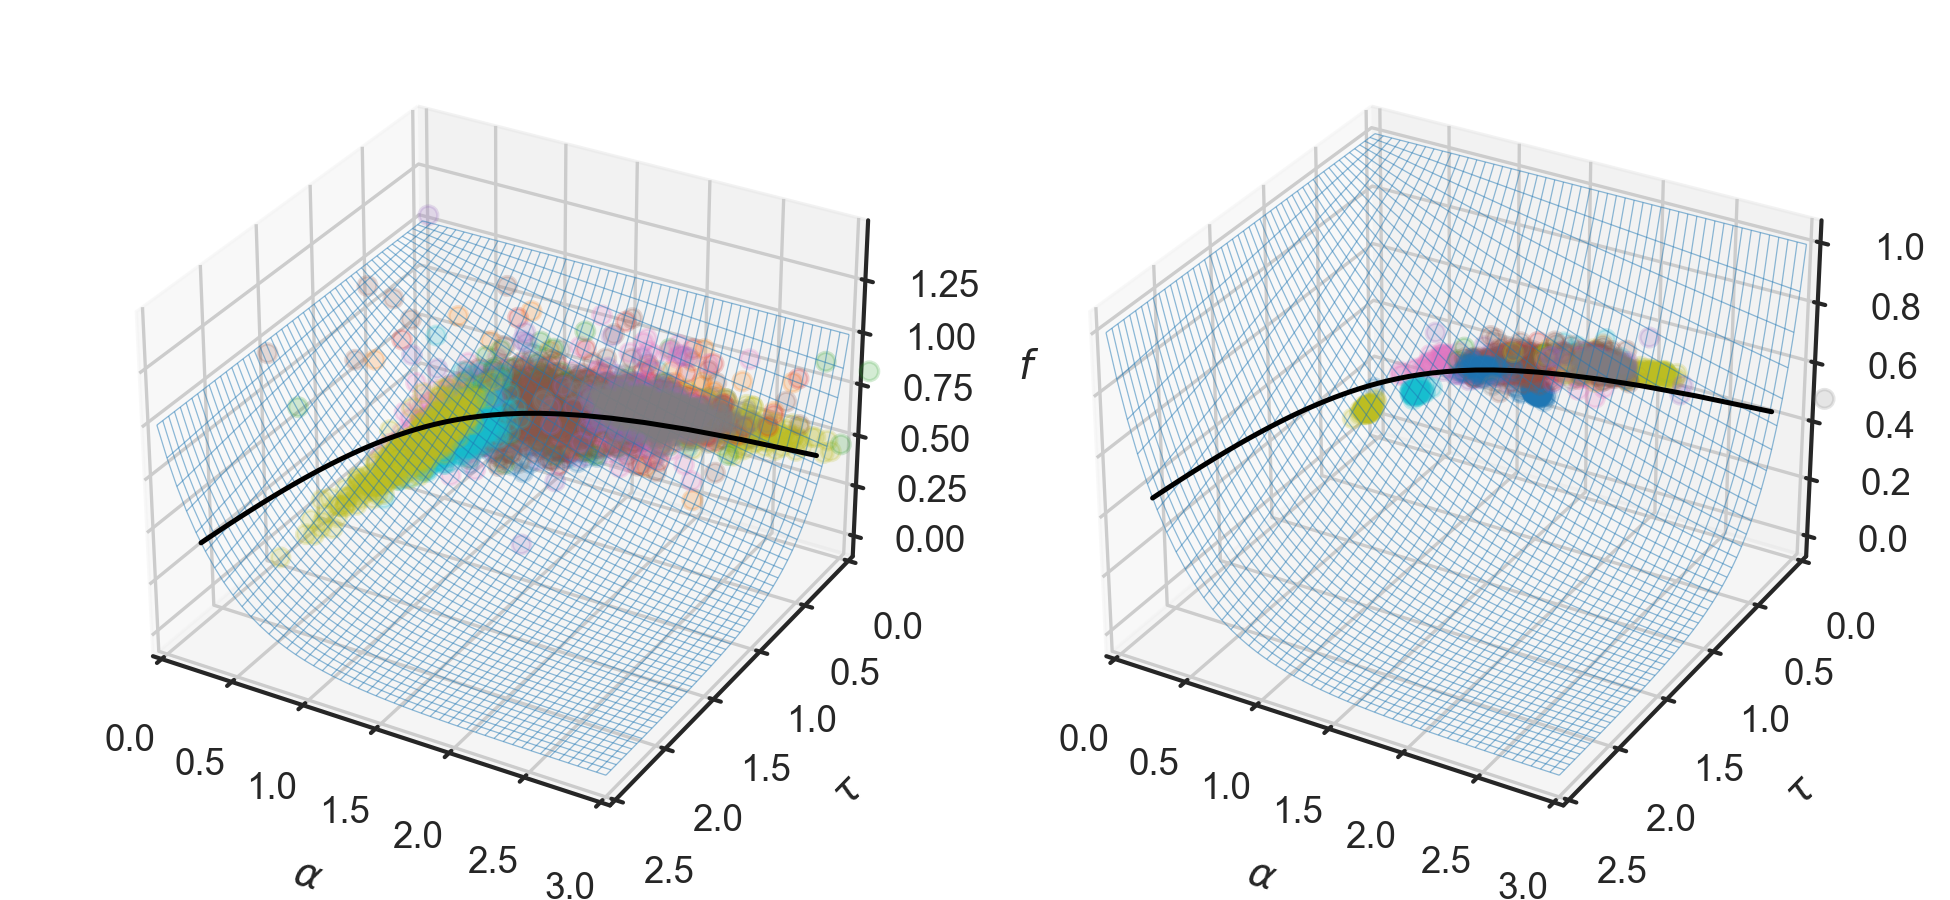
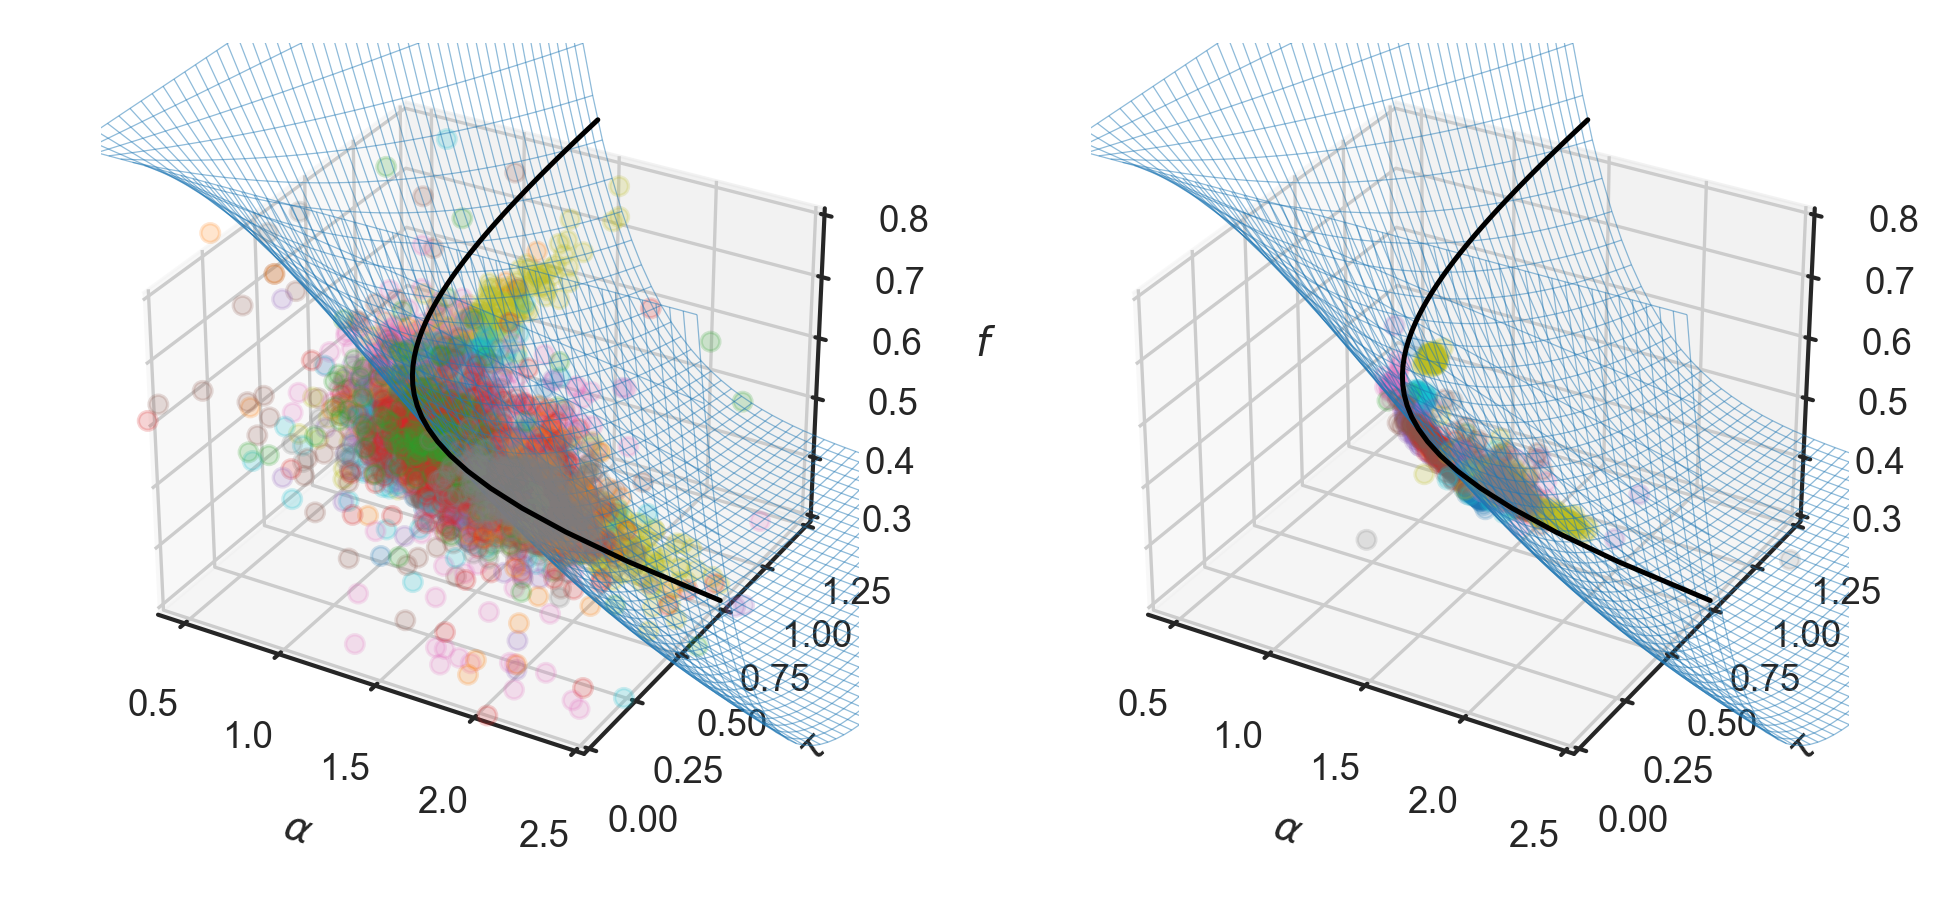
Code cleanup, bug fixes, and analysis script updates.

diff --git a/AnalysisCode/process_rawdata.py b/AnalysisCode/process_rawdata.py
@@ -33,9 +33,8 @@ def clean_up(lineage, window_size_of_interest=200):
     """ Gets rid of the remaining discrepancies """
 
     def recursive_rise_exclusion(lin, totals, rises):
-        diff = np.log(lin['length'].values[:-1]) - np.log(
-            lin['length'].values[
-            1:])  # What is the difference between the natural logs of two consecutive length measurements across one unit of time?
+        # What is the difference between the natural logs of two consecutive length measurements across one unit of time?
+        diff = np.log(lin['length'].values[:-1]) - np.log(lin['length'].values[1:])
 
         new_rises = np.where(diff <= -.5)[0]  # Here is where we check if it went up dramatically
 
@@ -46,8 +45,7 @@ def clean_up(lineage, window_size_of_interest=200):
                 woi = [0, len(lin)]
             elif rise <= window_size_of_interest:  # The raw lineage is big enough but rise is too close to the start of the lineage
                 woi = [0, rise + (window_size_of_interest - rise)]
-            elif len(
-                    lin) - rise <= window_size_of_interest:  # The raw lineage is big enough but rise is too close to the end of the lineage
+            elif len(lin) - rise <= window_size_of_interest:  # The raw lineage is big enough but rise is too close to the end of the lineage
                 woi = [len(lin) - window_size_of_interest, len(lin)]
             else:  # No complications with window size
                 woi = [rise - window_size_of_interest, rise + window_size_of_interest]
@@ -59,14 +57,6 @@ def clean_up(lineage, window_size_of_interest=200):
                 new_new.append(rise)
 
         new_rises = np.array(new_new)
-
-        # if len(new_new) > 0:
-        #     plt.plot(lin['length'].values)
-        #     plt.scatter(new_rises, lin['length'].values[new_rises], color='brown')
-        #     # plt.xlim([2500, 3200])
-        #     plt.tight_layout()
-        #     plt.show()
-        #     plt.close()
 
         rises = np.append(rises, [int(l + np.sum([l >= old for old in totals])) for l in
                                   new_rises]).flatten()  # Re-align these point to the raw_data
@@ -87,8 +77,7 @@ def clean_up(lineage, window_size_of_interest=200):
 
     """ Get rid of the non-positive lengths first """
     total_nans = np.array([])  # Where we will keep all the indices that will be taken out of the corrected lineage
-    non_positives = np.array(
-        lineage[lineage['length'] <= 0].index)  # Where the length is non-positive, which is impossible
+    non_positives = np.array(lineage[lineage['length'] <= 0].index)  # Where the length is non-positive, which is impossible
 
     if len(non_positives) > 0:  # Notify the user and take the non-positives out
         # print('NOTE: This lineage has a length lower than or equal to 0.')
@@ -100,9 +89,8 @@ def clean_up(lineage, window_size_of_interest=200):
     lineage = lineage.reset_index(drop=True)  # for good-practice
 
     """ Get rid of the single-point singularities first """
-    diff = np.log(lineage['length'].values[:-1]) - np.log(
-        lineage['length'].values[
-        1:])  # What is the difference between the natural logs of two consecutive length measurements across one unit of time?
+    # What is the difference between the natural logs of two consecutive length measurements across one unit of time?
+    diff = np.log(lineage['length'].values[:-1]) - np.log(lineage['length'].values[1:])
 
     # Take out all the singularities
     straight_up = np.where(diff <= -.4)[0]  # These are the points whose next point in time shoot up abnormally
@@ -121,8 +109,8 @@ def clean_up(lineage, window_size_of_interest=200):
 
     singularities = np.array([int(l + np.sum([l >= old for old in total_nans])) for l in singularities])
 
-    total_nans = np.append(total_nans,
-                           singularities).flatten()  # Add the singularities to the total indices we will ignore for analysis
+    # Add the singularities to the total indices we will ignore for analysis
+    total_nans = np.append(total_nans, singularities).flatten()
 
     """ Get rid of the remaining singularities recursively """
     new_lineage, new_total_nans, failures = recursive_rise_exclusion(lineage, total_nans, rises=np.array([]))
@@ -326,15 +314,13 @@ def deal_with_indices(lineage, lineage_id, indices_and_mistakes, check):
     lineage, total_nans, rises, singularities, non_positives = clean_up(lineage)  # Detect the mistakes within the cycle
 
     start_indices, end_indices = get_division_indices(
-        lineage['length'].values)  # Figure out the indices for the division events
+        lineage['length'].values
+    )  # Figure out the indices for the division events
 
     # print(f'lineage_id:{lineage_id}\nindices and mistakes: {indices_and_mistakes}\nstart_indices: {start_indices}\nend_indices: {end_indices}')
 
     if (isinstance(start_indices, type(None))) and (isinstance(end_indices, type(None))):
         return [None, None, None]
-
-    # if (len(start_indices) <= 1) and (len(end_indices) <= 1):
-    #     return [None, None, None]
 
     # add the cycle variables to the overall dataframe
     cycle_variables_lineage, with_outliers, start_indices, end_indices, outsider_start_indices, outsider_end_indices = \
@@ -378,11 +364,6 @@ def deal_with_indices(lineage, lineage_id, indices_and_mistakes, check):
                 'type': label,
                 'lineage_ID': lineage_id
             }, index=[len(indices_and_mistakes)])])
-            # indices_and_mistakes = indices_and_mistakes.append({
-            #     'value': v,
-            #     'type': label,
-            #     'lineage_ID': lineage_id
-            # }, ignore_index=True)
 
     if check:
         if np.array([l != 0 for l in [len(total_nans), len(non_positives), len(singularities), len(rises)]]).any():
@@ -497,7 +478,7 @@ class MM:
                 if filename in correct_timestamp:
                     lineage['time'] = lineage['time'] * 2
 
-                time_step = max(np.unique(np.diff(lineage['time'])), key=list(np.diff(lineage['time'])).count)
+                time_step = max(np.unique(np.diff(lineage.loc[1:, 'time'])), key=list(np.diff(lineage.loc[1:, 'time'])).count)
 
                 # print('step size', time_step)
             elif self.args['data_origin'] in wang_datasets:
@@ -920,53 +901,6 @@ class SM:
 
         self.save_dataframes()
 
-    # def save_dataframes(self, ton, aon):
-    #     # rawdata will be in processed folder if noisified
-    #     if (ton is None) and (aon is None):  # Source data
-    #
-    #         # Save the raw data
-    #         self.raw_data.to_csv(
-    #             self.args['source_raw_data'] + r'/raw_data_all_in_one.csv', index=False
-    #         )
-    #     else:  # Noisified data
-    #         # # Save the noisified raw data
-    #         # noise_raw_data = os.path.dirname(self.args['raw_data']) + r'/' + f'type_of_noise_{ton}_amount_of_noise_{aon}'
-    #
-    #         # Save the raw data
-    #         self.raw_data.to_csv(
-    #             self.args['processed_data'] + r'/raw_data_all_in_one.csv', index=False
-    #         )
-    #
-    #     self.cycle_variables.to_csv(self.args['without_outliers'] + '/physical_units_without_outliers.csv',
-    #                                 index=False)  # Save the physiological variables
-    #
-    #     trace_centered = center_the_lineages(self.cycle_variables, phenotypic_variables)
-    #     trace_centered.to_csv(self.args['without_outliers'] + '/trace_centered_without_outliers.csv',
-    #                           index=False)  # Save the trace centered dataframe
-    #
-    #     time_averages = get_time_averages_df(self.cycle_variables, phenotypic_variables)
-    #     time_averages.to_csv(self.args['without_outliers'] + '/time_averages_without_outliers.csv',
-    #                          index=False)  # Save the time averaged dataframe
-    #
-    #     # Now do the ones with filamentation and outliers #
-    #     self.with_outliers_cycle_variables.to_csv(self.args['processed_data'] + '/physical_units.csv',
-    #                                               index=False)  # Save the physiological variables
-    #
-    #     trace_centered = center_the_lineages(self.with_outliers_cycle_variables, phenotypic_variables).reset_index(
-    #         drop=True)
-    #     trace_centered.to_csv(self.args['processed_data'] + '/trace_centered.csv',
-    #                           index=False)  # Save the trace centered dataframe
-    #
-    #     time_averages = get_time_averages_df(
-    #         self.with_outliers_cycle_variables.sort_values(['lineage_ID', 'generation']).reset_index(drop=True),
-    #         phenotypic_variables)
-    #     time_averages.to_csv(self.args['processed_data'] + '/time_averages.csv',
-    #                          index=False)  # Save the time averaged dataframe
-    #
-    #     # Save the raw indices that are supposed to be highlighted
-    #     self.raw_indices.reset_index(drop=True).sort_values(['lineage_ID']).to_csv(
-    #         self.args['processed_data'] + '/raw_indices_processing.csv', index=False)
-
     def input_raw_data(self):
         # Where we will put the raw data
         raw_data = pd.DataFrame(columns=['time', 'length', 'dataset', 'trap_ID', 'trace', 'lineage_ID'])
@@ -1104,7 +1038,7 @@ class SM:
             # Do the physiological variable processing
             cycle_variables_lineage, with_outliers, raw_indices = deal_with_indices(
                 lineage, lineage_id, raw_indices, self.args['check']
-                                                                                    )
+            )
 
             # Add the SM categorical variables
             cycle_variables_lineage['trap_ID'] = lineage['trap_ID'].unique()[0]
@@ -1120,8 +1054,8 @@ class SM:
             with_outliers_cycle_variables = pd.concat([with_outliers_cycle_variables, with_outliers], ignore_index=True)  # with_outliers_cycle_variables.append(with_outliers, ignore_index=True)
 
             if self.args['check']:
-                check_the_division(self.args, lineages=[lineage_id], raw_lineages=lineage,
-                                   raw_indices=raw_indices, pu=cycle_variables)
+                check_the_division(data_origin_name=self.args['data_origin'], lineages=[lineage_id], raw_lineages=lineage,
+                                   raw_indices=raw_indices, pu=cycle_variables, **self.args)
 
         if self.args['check']:
             print('processed data:\n', cycle_variables)
@@ -1149,11 +1083,6 @@ class SM:
                     'percentage': cycle_variables[variable].count() / (
                                 len(cycle_variables[variable]) - (1 * len(cycle_variables['lineage_ID'].unique())))
                 }, index=[len(table_of_outliers)])])
-                # table_of_outliers = table_of_outliers.append({
-                #     'variable': variable,
-                #     'percentage': cycle_variables[variable].count() / (
-                #                 len(cycle_variables[variable]) - (1 * len(cycle_variables['lineage_ID'].unique())))
-                # }, ignore_index=True)
 
                 if self.args['check']:
                     print(variable, cycle_variables[variable].count() / len(cycle_variables[variable]))
@@ -1180,7 +1109,7 @@ class SM:
 
             # Save the raw data
             self.raw_data.to_csv(
-                self.args['processed_data'] + r'/raw_data_all_in_one.csv', index=False
+                noise_raw_data, index=False
             )
 
         self.cycle_variables.to_csv(self.args['without_outliers'] + '/physical_units_without_outliers.csv',
@@ -1220,9 +1149,8 @@ def run_script(argums):
     else:  # Get MM data
         MM(argums)
 
-    # check_the_division(arguments)  # Optional to see the fits over the raw data.
-
     if argums['check']:
+        # check_the_division(data_origin_name=argums['data_origin'], **argums)  # Optional to see the fits over the raw data.
         print('*' * 200)
 
 
@@ -1250,9 +1178,6 @@ def main(tof=None, aof=None, check=False, ds_names=dataset_names, **kwargs):
             'processed_data': kwargs['processed_data'](data_origin),
             'without_outliers': kwargs['without_outliers'](data_origin)
         }
-
-        # create_folder(arguments['processed_data'])
-        # create_folder(arguments['without_outliers'])
 
         # Making the raw, processed and without_outliers arguments for noise or no noise
         if (arguments['type_of_noise'] is None) & (arguments['amount_of_noise'] is None):  # Not using any noise

diff --git a/run_all_analysis.py b/run_all_analysis.py
@@ -27,11 +27,7 @@ noise_args = {
     'amount_of_noise': [None],  # Other examples include [.1, .2]
     'check': False,
     'ds_names': dataset_names
-# [
-#         '20090131_E_coli_MG1655_(CGSC_6300)_Wang2010', '20090525_E_coli_MG1655_(CGSC_6300)_Wang2010',
-#         '20090512_E_coli_MG1655_(CGSC_6300)_Wang2010', '20090930_E_coli_MG1655_lexA3_Wang2010',
-#         '20090923_E_coli_MG1655_lexA3_Wang2010', '20090922_E_coli_MG1655_lexA3_Wang2010'
-#     ]
+    # , 'plot_it': True
 }
 
 for tof, aof in zip(noise_args["types_of_noise"], noise_args["amount_of_noise"]):
@@ -70,17 +66,17 @@ for tof, aof in zip(noise_args["types_of_noise"], noise_args["amount_of_noise"])
     
     variance_decomposed(**noise_args)  # Requires datasets 'Pooled_SM', 'lambda_lb', 'Maryam_LongTraces'
     
-    variance_decomposed_supp(**noise_args)
+    # variance_decomposed_supp(**noise_args)
     
-    pyramids(**noise_args)
+    # pyramids(**noise_args)
     
-    histogram_of_generations_per_lineage(**noise_args)  # Not necessary since it is not published
+    # histogram_of_generations_per_lineage(**noise_args)  # Not necessary since it is not published
     
-    intergenerational_corrs(**noise_args)
+    # intergenerational_corrs(**noise_args)
     
-    microenv_averages(**noise_args)
+    # microenv_averages(**noise_args)
     
-    pair_lineage_corrs(**noise_args)
+    # pair_lineage_corrs(**noise_args)
     
     dfa_maintext(**noise_args)
     

diff --git a/PairTimescaleCorrelations/pair_lineage_correlations.py b/PairTimescaleCorrelations/pair_lineage_correlations.py
@@ -61,8 +61,11 @@ def run_it(args, **kwargs):
                     
                     print(f'number of points in the scatter plot {row_var}^A {col_var}^B: {len(col_array)}')  # For the caption in the paper
                     
-                    ax.scatter(col_array, row_array, color=cmap[0], marker='o', alpha=.3)  # plot the points
-                    ax.plot(np.unique(col_array), [intercept + slope * vel for vel in np.unique(col_array)], c='k', ls='--')  # Plot the best fit line
+                    ax.scatter(col_array, row_array, marker='o', alpha=.3, color=cmap[0], cmap='viridis')  # TODO: , color=cmap[0]
+                    # Add a color bar
+                    plt.colorbar(label='Color scale')  # Plot the best fit line
+                    # plot the points
+                    ax.plot(np.unique(col_array), [intercept + slope * vel for vel in np.unique(col_array)], c='k', ls='--')
                     ax.annotate(r'$\rho = $' + pcorr + '\n' + r'$\beta = {:.2}$'.format(np.round(slope, 2)), xy=(.5, .8), xycoords=ax.transAxes, fontsize=7, ha='center', va='bottom', color='red',
                                 bbox=dict(boxstyle='round,pad=0.2', fc='yellow', alpha=0.7))  # Show the slope as well as the Pearson correlation coefficient
                 

diff --git a/AnalysisCode/global_variables.py b/AnalysisCode/global_variables.py
@@ -453,11 +453,11 @@ def check_the_division(data_origin_name: str, lineages: list = [], raw_lineages:
         print(kwargs)
         # raw_lineages = pd.read_csv(os.path.dirname(os.path.dirname(kwargs['processed_data'](data_origin_name))) + '/raw_data_all_in_one.csv')
         raw_lineages = pd.read_csv(
-            kwargs['raw_data'](data_origin_name) + 'raw_data_all_in_one.csv')
+            kwargs['source_raw_data'] + 'raw_data_all_in_one.csv')
     if len(raw_indices) == 0:
-        raw_indices = pd.read_csv(kwargs['processed_data'](data_origin_name) + 'raw_indices_processing.csv')
+        raw_indices = pd.read_csv(kwargs['processed_data'] + 'raw_indices_processing.csv')
     if len(pu) == 0:
-        pu = pd.read_csv(kwargs['without_outliers'](data_origin_name) + 'physical_units_without_outliers.csv')
+        pu = pd.read_csv(kwargs['without_outliers'] + 'physical_units_without_outliers.csv')
     if len(lineages) == 0:
         lineages = raw_lineages.lineage_ID.unique()
     

diff --git a/AttractorManifold/manifold.py b/AttractorManifold/manifold.py
@@ -32,8 +32,16 @@ def plot_perfect_line(ax):
     
     
 def script(variables: list, ax, points_are: str = 'pu', **kwargs):  # can be ta
-    ax.set_xlim([0, 3])
-    ax.set_ylim([2.5, 0])
+    ax.set_xlim([.5, 2.5] if points_are == 'pu' else [0, 3])
+    ax.set_ylim([1.25, 0] if points_are == 'pu' else [2.5, 0])
+
+    # gentime = [1.25, 0], f = [0.8, 0.3], gr = [0.4, 2.5]
+    # ax.set_xlim([0, 3])
+    # ax.set_ylim([2.5, 0])
+    ax.set_xlim([0.4, 2.5])
+    ax.set_ylim([0, 1.25])
+    ax.set_zlim([0.3, 0.8])
+
     # ax.set_zlim([1, 0])
     
     plot_manifold(ax)  # Line of r=1

diff --git a/PersistenceMainText/dfa_dataframe_figures_and_illustrations.py b/PersistenceMainText/dfa_dataframe_figures_and_illustrations.py
@@ -439,8 +439,9 @@ def plot_loglog_lines(loglog_plot_recreation, ax):
     # ax.title(variable)
     ax.set_ylabel(r'$F(k)$')
     ax.set_xlabel('k (window size)')
-    ax.set_yscale('log')
-    ax.set_xscale('log')
+    # ax.set_yscale('log')
+    # ax.set_xscale('log')
+    
     # ax.legend(title='', loc='upper left')
 
 
